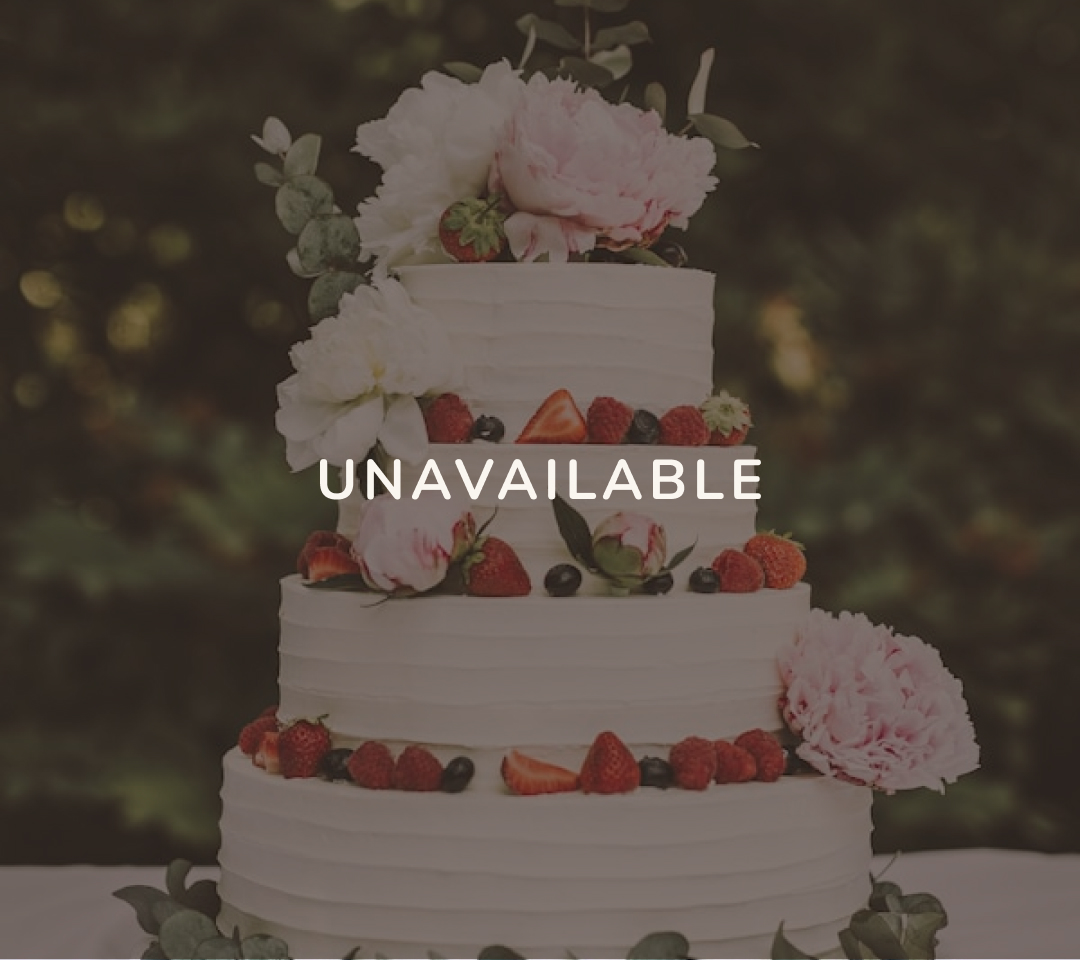
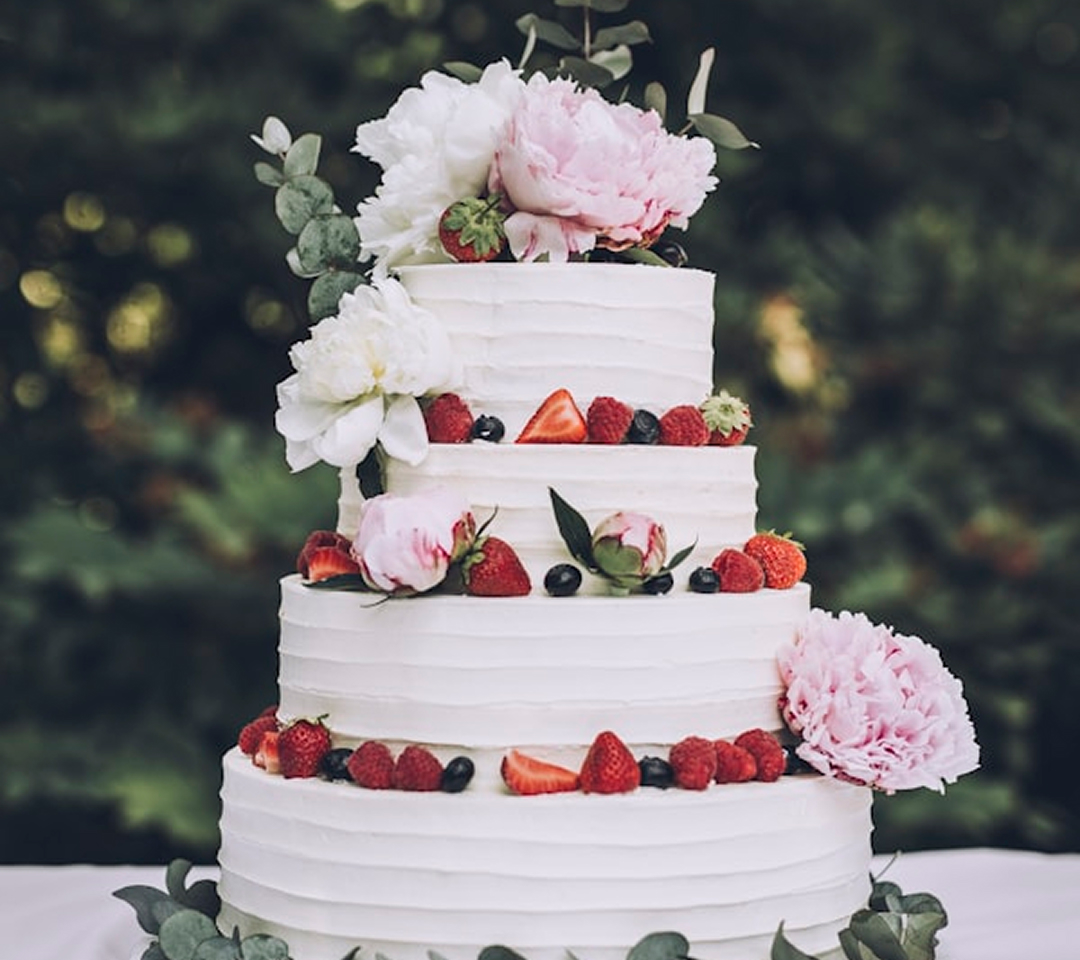
Added authentication system (login, signup, logout) with user profiles and welcome messages

diff --git a/bakery/templates/bakery/base.html b/bakery/templates/bakery/base.html
@@ -21,14 +21,32 @@
             <li><a href="#">Customise</a></li>
         </ul>
         <div class="auth-buttons">
-            <button class="admin-btn">Admin</button>
-            <button class="profile-btn">My Profile</button>
-            <a href="{% url 'login' %}" class="login-btn" style="text-decoration:none; display:inline-block;">Log In</a>
-            <a href="{% url 'signup' %}" class="signup-btn" style="text-decoration:none; display:inline-block;">Sign Up</a>
+            <a href="/admin/" class="admin-btn">Admin</a>
+
+            {% if user.is_authenticated %}
+                <a href="#" class="profile-btn">Hi, {{ user.profile.full_name|default:user.username }}</a>
+                <a href="{% url 'logout' %}" class="login-btn">Log Out</a>
+            {% else %}
+                <a href="{% url 'login' %}" class="login-btn">Log In</a>
+                <a href="{% url 'signup' %}" class="signup-btn">Sign Up</a>
+            {% endif %}
         </div>
+
     </nav>
 
     <!-- ===== PAGE CONTENT (Changes per page) ===== -->
+     <!-- Messages (Welcome, errors, etc.) -->
+    {% if messages %}
+        <div class="messages-container">
+            {% for message in messages %}
+                <div class="message {{ message.tags }}">
+                    {{ message }}
+                </div>
+            {% endfor %}
+        </div>
+    {% endif %}
+    
+
     {% block content %}
     <!-- Each page will put its own content here -->
     {% endblock %}

diff --git a/static/css/style.css b/static/css/style.css
@@ -785,3 +785,58 @@ body {
     border-color: #c0392b;
     color: #c0392b;
 }
+
+/* Welcome Messages */
+.messages-container {
+    position: fixed;
+    top: 90px;
+    right: 30px;
+    z-index: 1000;
+    max-width: 400px;
+}
+
+.message {
+    padding: 15px 25px;
+    border-radius: 10px;
+    margin-bottom: 10px;
+    font-size: 14px;
+    box-shadow: 0 5px 20px rgba(0,0,0,0.15);
+    animation: slideIn 0.4s ease-out;
+}
+
+.message.success {
+    background-color: #2b1d16;
+    color: #f4ead5;
+    border-left: 4px solid #d19a7a;
+}
+
+.message.error {
+    background-color: #fde8e8;
+    color: #c0392b;
+    border-left: 4px solid #c0392b;
+}
+
+.message.info {
+    background-color: #f4ead5;
+    color: #2b1d16;
+    border-left: 4px solid #d19a7a;
+}
+
+@keyframes slideIn {
+    from {
+        transform: translateX(100%);
+        opacity: 0;
+    }
+    to {
+        transform: translateX(0);
+        opacity: 1;
+    }
+}
+
+/* Navbar button for logged-in user */
+.navbar .auth-buttons a.profile-btn {
+    background-color: #f4ead5;
+    color: #2b1d16;
+    border: 1px solid #e0d5c5;
+    font-weight: bold;
+}

diff --git a/bakery/templates/bakery/home.html b/bakery/templates/bakery/home.html
@@ -10,8 +10,13 @@
         <p>Artisan cakes baked to order for your birthdays, weddings, and every special occasion in between. Standard designs and fully customized creations.</p>
         
         <div class="hero-buttons">
+            {# --- "Browse Our Cakes" button — always visible --- #}
             <a href="{% url 'our_cakes' %}" class="primary-btn">Browse Our Cakes</a>
-            <a href="#" class="secondary-btn">Create an Account</a>
+
+            {# --- "Create an Account" button — only visible to guests (not logged in) --- #}
+            {% if not user.is_authenticated %}
+            <a href="{% url 'signup' %}" class="secondary-btn">Create an Account</a>
+            {% endif %}
         </div>
     </section>
 

diff --git a/bakery/views.py b/bakery/views.py
@@ -2,6 +2,12 @@ from django.shortcuts import render, get_object_or_404
 from .models import Cake
 from django.shortcuts import render, redirect
 from .forms import SignupForm
+from django.contrib import messages
+from django.contrib.auth.views import LoginView
+from django.urls import reverse_lazy
+from django.contrib.auth import logout
+from django.shortcuts import redirect
+
 
 def home(request):
     return render(request, 'bakery/home.html')
@@ -22,11 +28,23 @@ def signup(request):
         form = SignupForm(request.POST)
         if form.is_valid():
             user = form.save()
-            # Log the user in automatically after signup
             from django.contrib.auth import login
             login(request, user)
+            messages.success(request, f"Welcome to the family, {user.profile.full_name}! 🎉 Your account is ready.")
             return redirect('home')
     else:
         form = SignupForm()
     
     return render(request, 'bakery/signup.html', {'form': form})
+
+class CustomLoginView(LoginView):
+    template_name = 'bakery/login.html'
+    
+    def form_valid(self, form):
+        messages.success(self.request, f"Welcome back, {form.get_user().profile.full_name}! Ready to order? 🍰")
+        return super().form_valid(form)
+
+def custom_logout(request):
+    logout(request)
+    messages.info(request, "You have been logged out. See you soon! 👋")
+    return redirect('home')

diff --git a/bakery/urls.py b/bakery/urls.py
@@ -3,14 +3,14 @@ from django.contrib.auth import views as auth_views
 from . import views
 
 urlpatterns = [
+    # Main pages
     path('', views.home, name='home'),
     path('our-cakes/', views.our_cakes, name='our_cakes'),
     path('cake/<int:cake_id>/', views.cake_detail, name='cake_detail'),
     path('about-us/', views.about_us, name='about_us'),
     
-    
     # Authentication
-    path('login/', auth_views.LoginView.as_view(template_name='bakery/login.html'), name='login'),
-    path('signup/', auth_views.LoginView.as_view(template_name='bakery/signup.html'), name='signup'),
-    path('logout/', auth_views.LogoutView.as_view(next_page='home'), name='logout'),
+    path('login/', views.CustomLoginView.as_view(), name='login'),  # <-- Changed
+    path('logout/', views.custom_logout, name='logout'),
+    path('signup/', views.signup, name='signup'),
 ]

diff --git a/tigato_project/urls.py b/tigato_project/urls.py
@@ -3,5 +3,5 @@ from django.urls import path, include
 
 urlpatterns = [
     path('admin/', admin.site.urls),
-    path('', include('bakery.urls')), # This connects to your bakery app!
+    path('', include('bakery.urls')),
 ]
